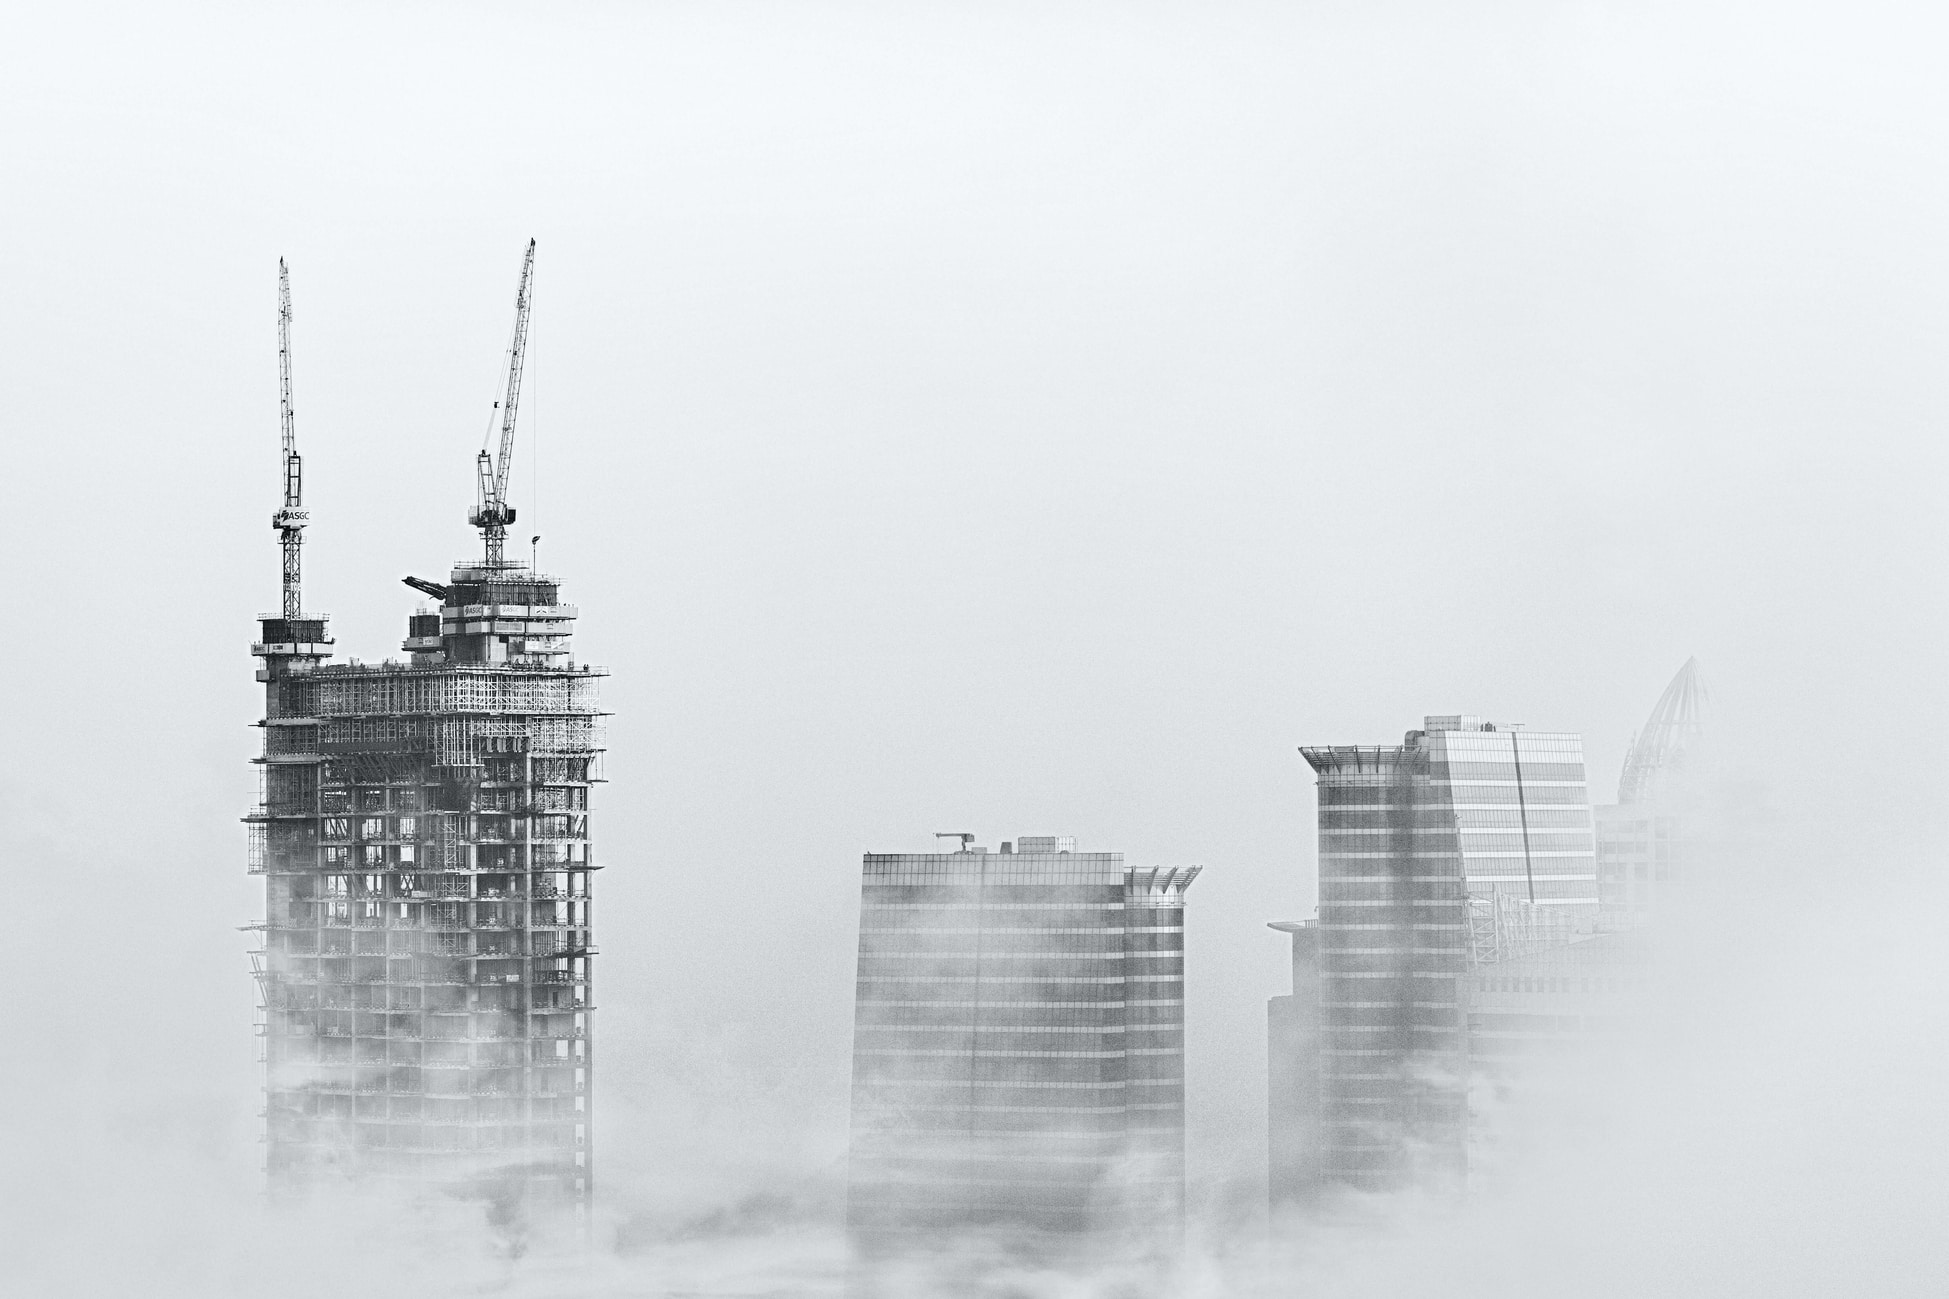
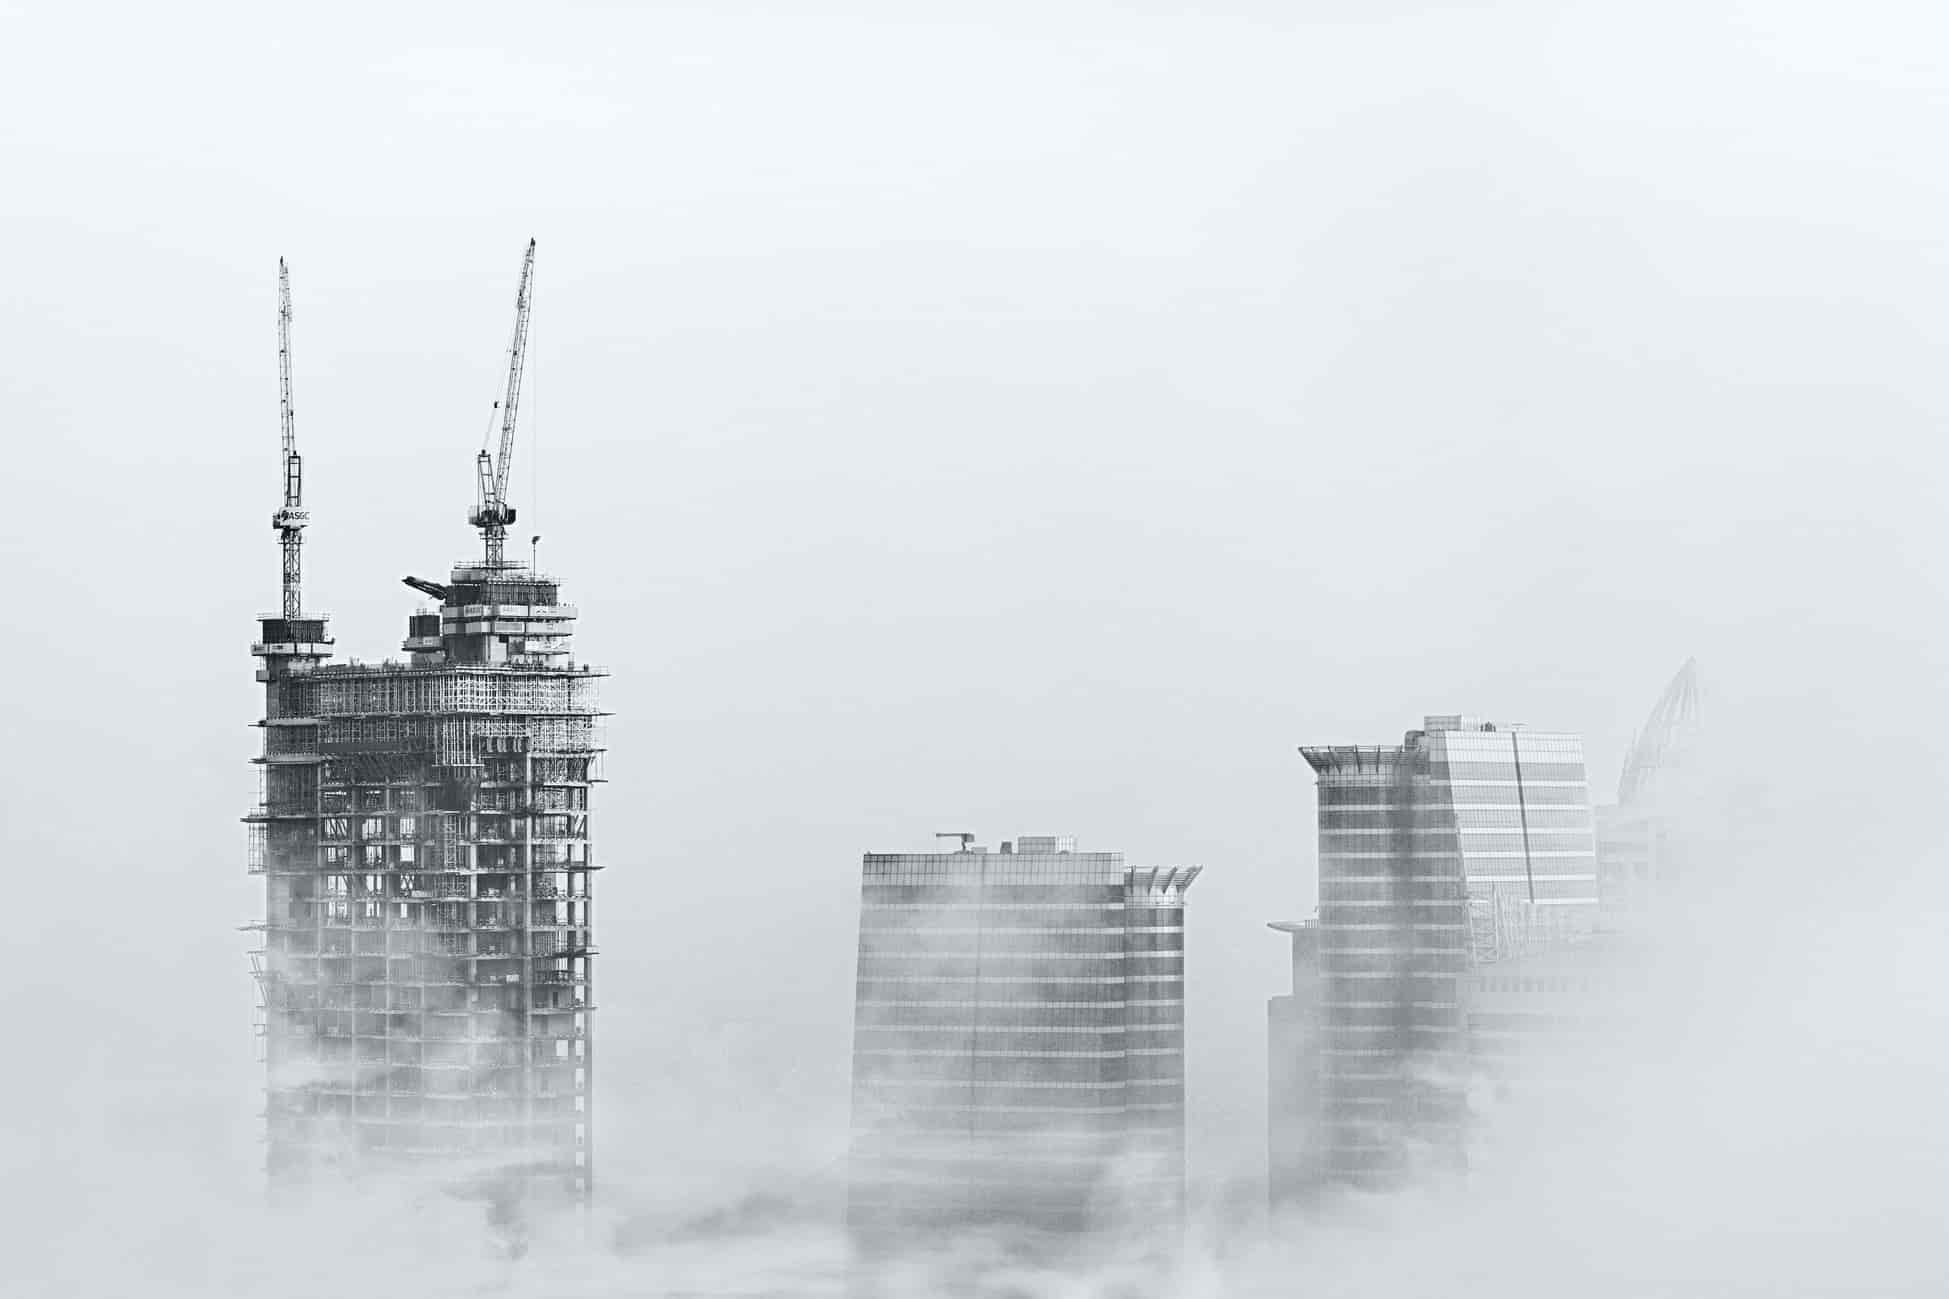
Test

diff --git a/css/content.css b/css/content.css
@@ -1,3 +1,7 @@
+@import url("https://fonts.googleapis.com/css2?family=Inter:wght@400;700&display=swap");
+
+/* CONTENT */
+
 * {
   margin: 0;
   padding: 0;
@@ -170,6 +174,77 @@ body::-webkit-scrollbar {
   font-size: 2rem;
   font-weight: 400;
   color: white;
+}
+
+/* MENU */
+
+.topbar {
+  display: flex;
+  align-items: center;
+  justify-content: center;
+  flex-direction: row;
+  width: 100vw;
+  scroll-behavior: smooth;
+}
+.navbar {
+  padding: 0 5vw;
+  display: flex;
+  justify-content: center;
+  position: absolute;
+  width: 100%;
+  top: 0;
+  z-index: 10;
+  overflow: hidden;
+  background-color: transparent;
+}
+.navbar ul {
+  position: relative;
+  display: flex;
+  flex-direction: row;
+  justify-content: right;
+  width: 100%;
+  height: 10vh;
+}
+.navbar ul li {
+  position: relative;
+  list-style-type: none;
+  padding: 0.5rem 0.5rem;
+  display: flex;
+  align-items: center;
+}
+.navbar ul li:not(:first-child) {
+  order: 2;
+}
+.navbar ul li:first-child {
+  order: 1;
+}
+.navbar ul:before {
+  content: "";
+  flex-grow: 1;
+  order: 2;
+}
+.navbar ul li a {
+  position: relative;
+  display: flex;
+  align-items: center;
+  justify-content: center;
+  text-decoration: none;
+  color: #333;
+  font-size: 2rem;
+  margin: 0 0.5rem;
+  margin-top: 0.2rem;
+  transition: 130ms ease-in;
+  border-bottom: solid 0.2rem transparent;
+}
+.navbar ul li a:hover {
+  cursor: pointer;
+}
+.navbar ul li a:not(#logo):hover {
+  border-bottom: solid 0.2rem #333;
+}
+:root {
+  user-select: none;
+  font-family: "Inter", sans-serif;
 }
 
 @keyframes fade {

diff --git a/js/script.js b/js/script.js
@@ -115,7 +115,7 @@ Array.from(groupimg).forEach((img) => {
   groupdiv.style.justifyContent = "center";
   groupdiv.style.alignItems = "center";
   groupdiv.style.position = "relative";
-  groupdiv.style.backgroundImage = "url(../eliovex/img/background.jpeg)";
+  groupdiv.style.backgroundImage = "url(../eliovex/img/background2.jpg)";
   groupdiv.style.backgroundSize = "cover";
   groupdiv.style.backgroundPosition = "bottom";
   groupdiv.style.backgroundRepeat = "no-repeat";
